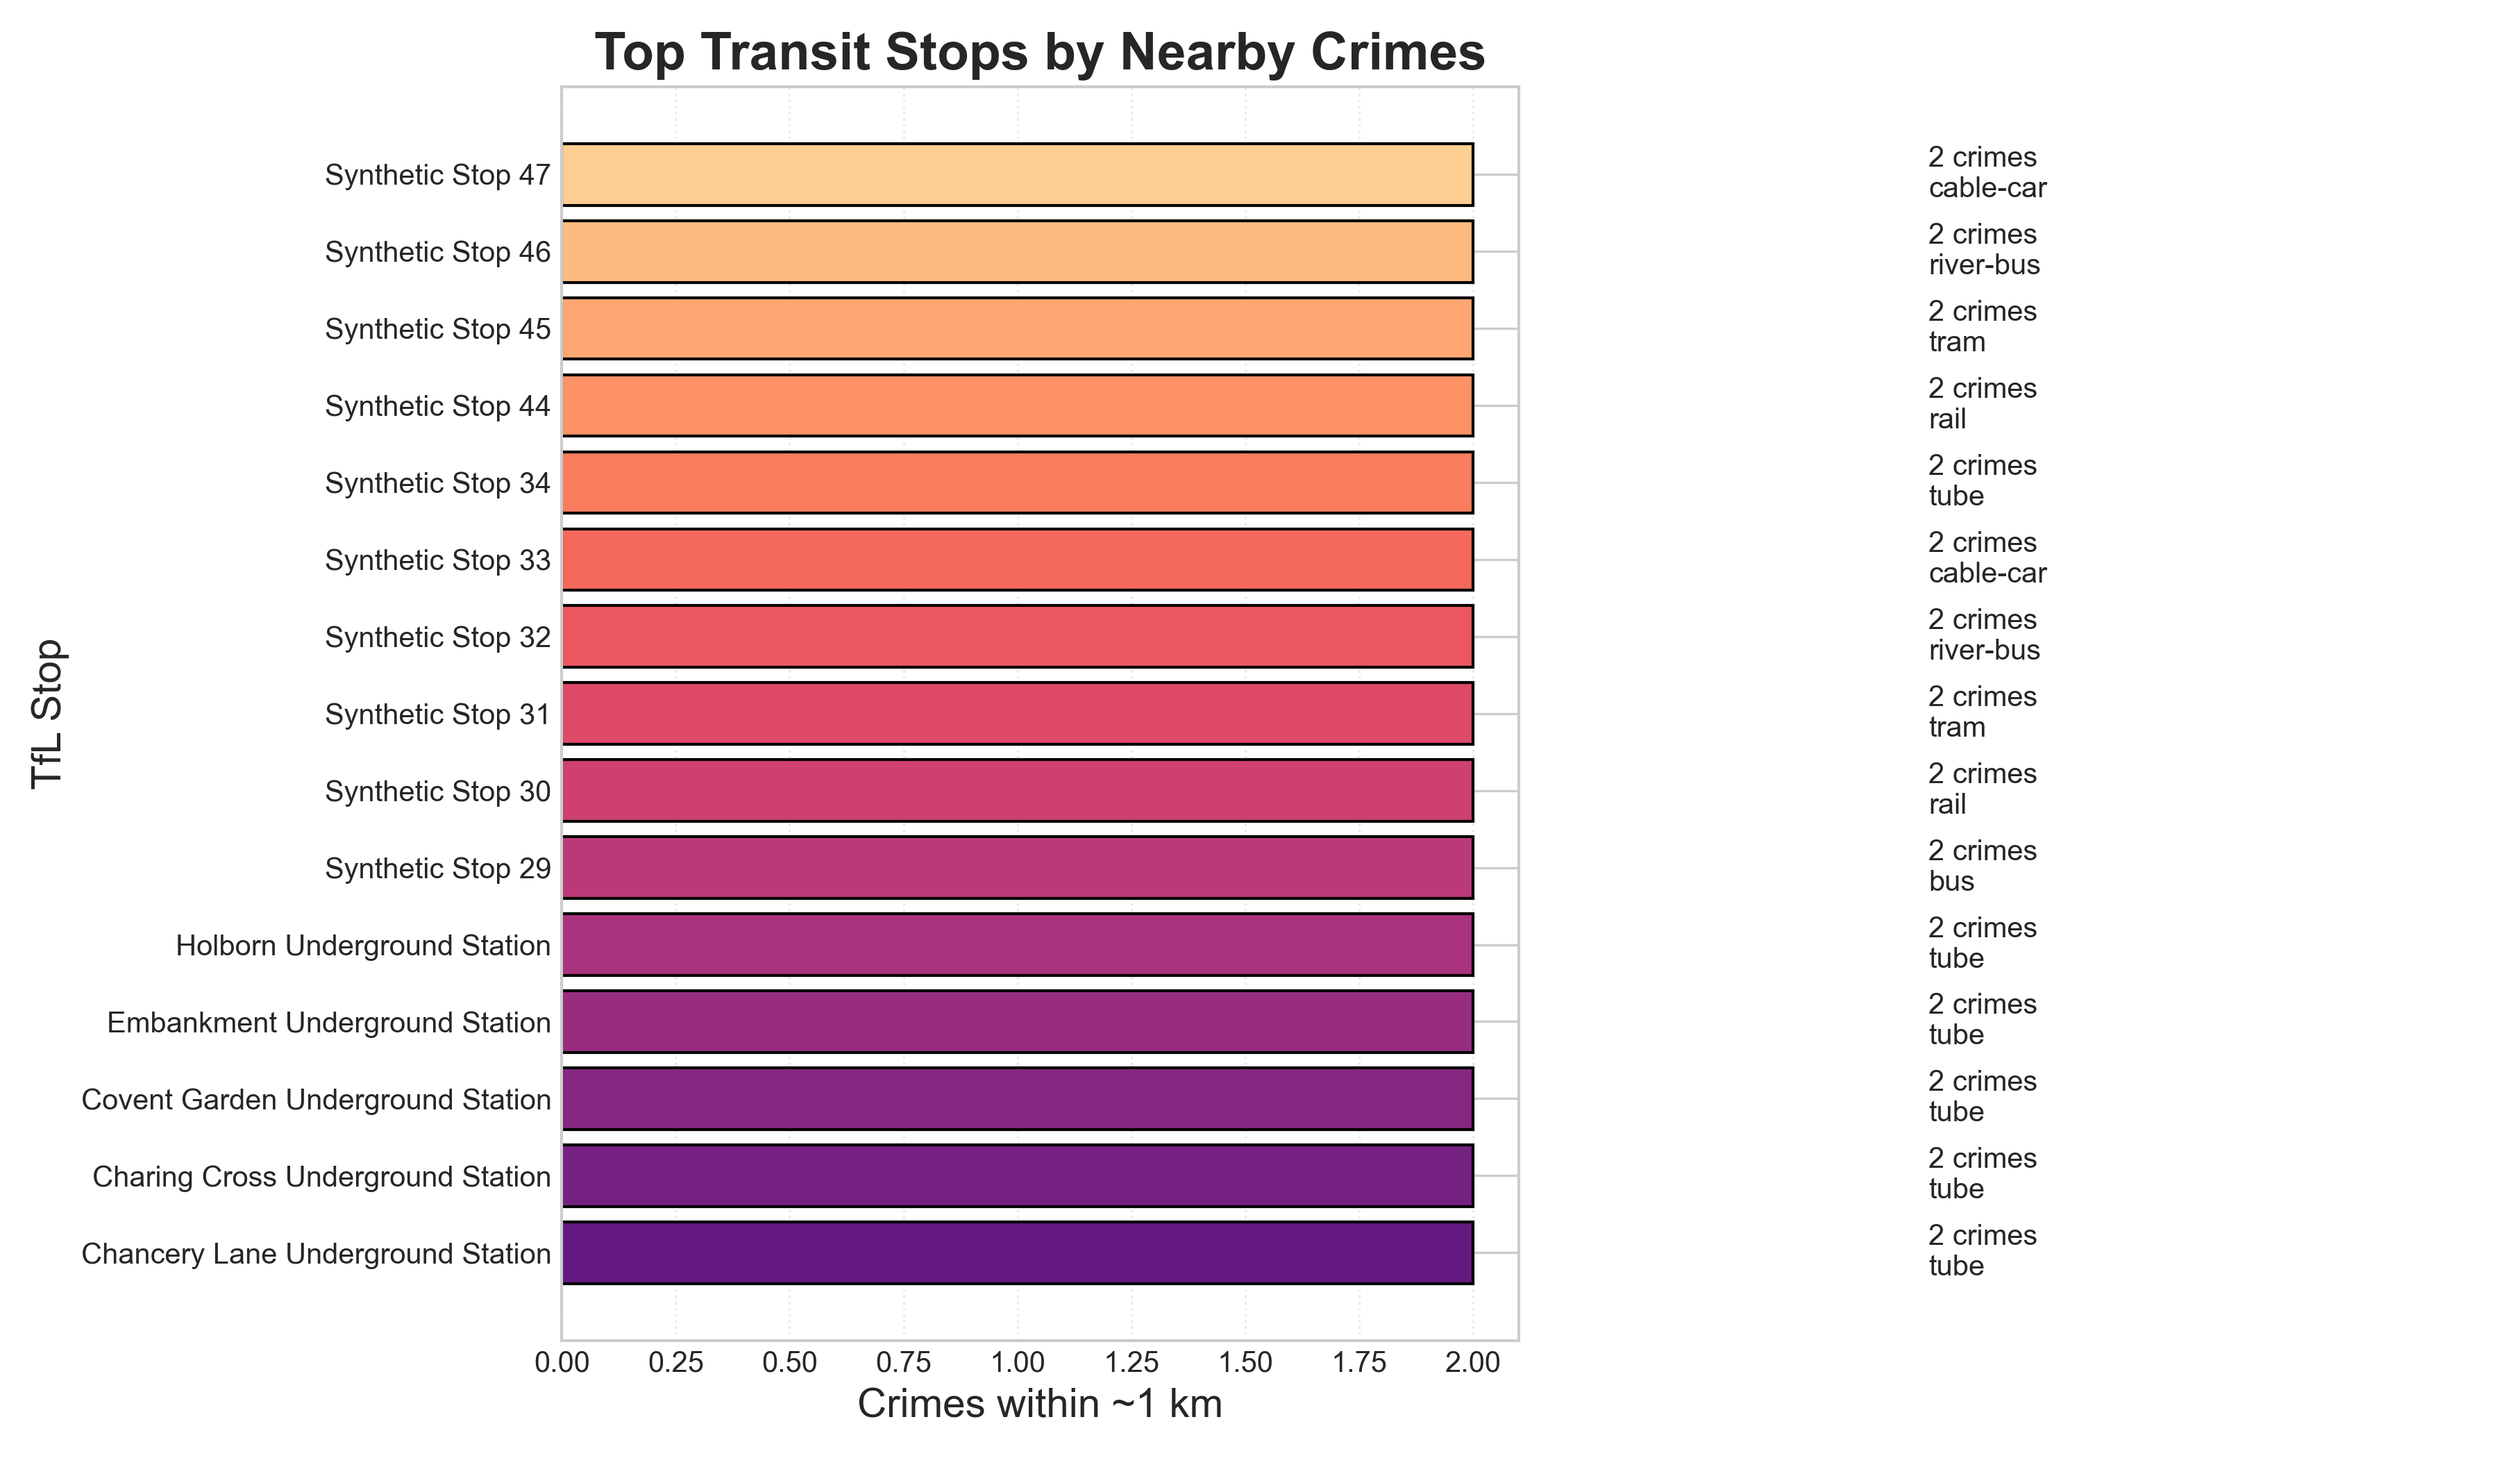
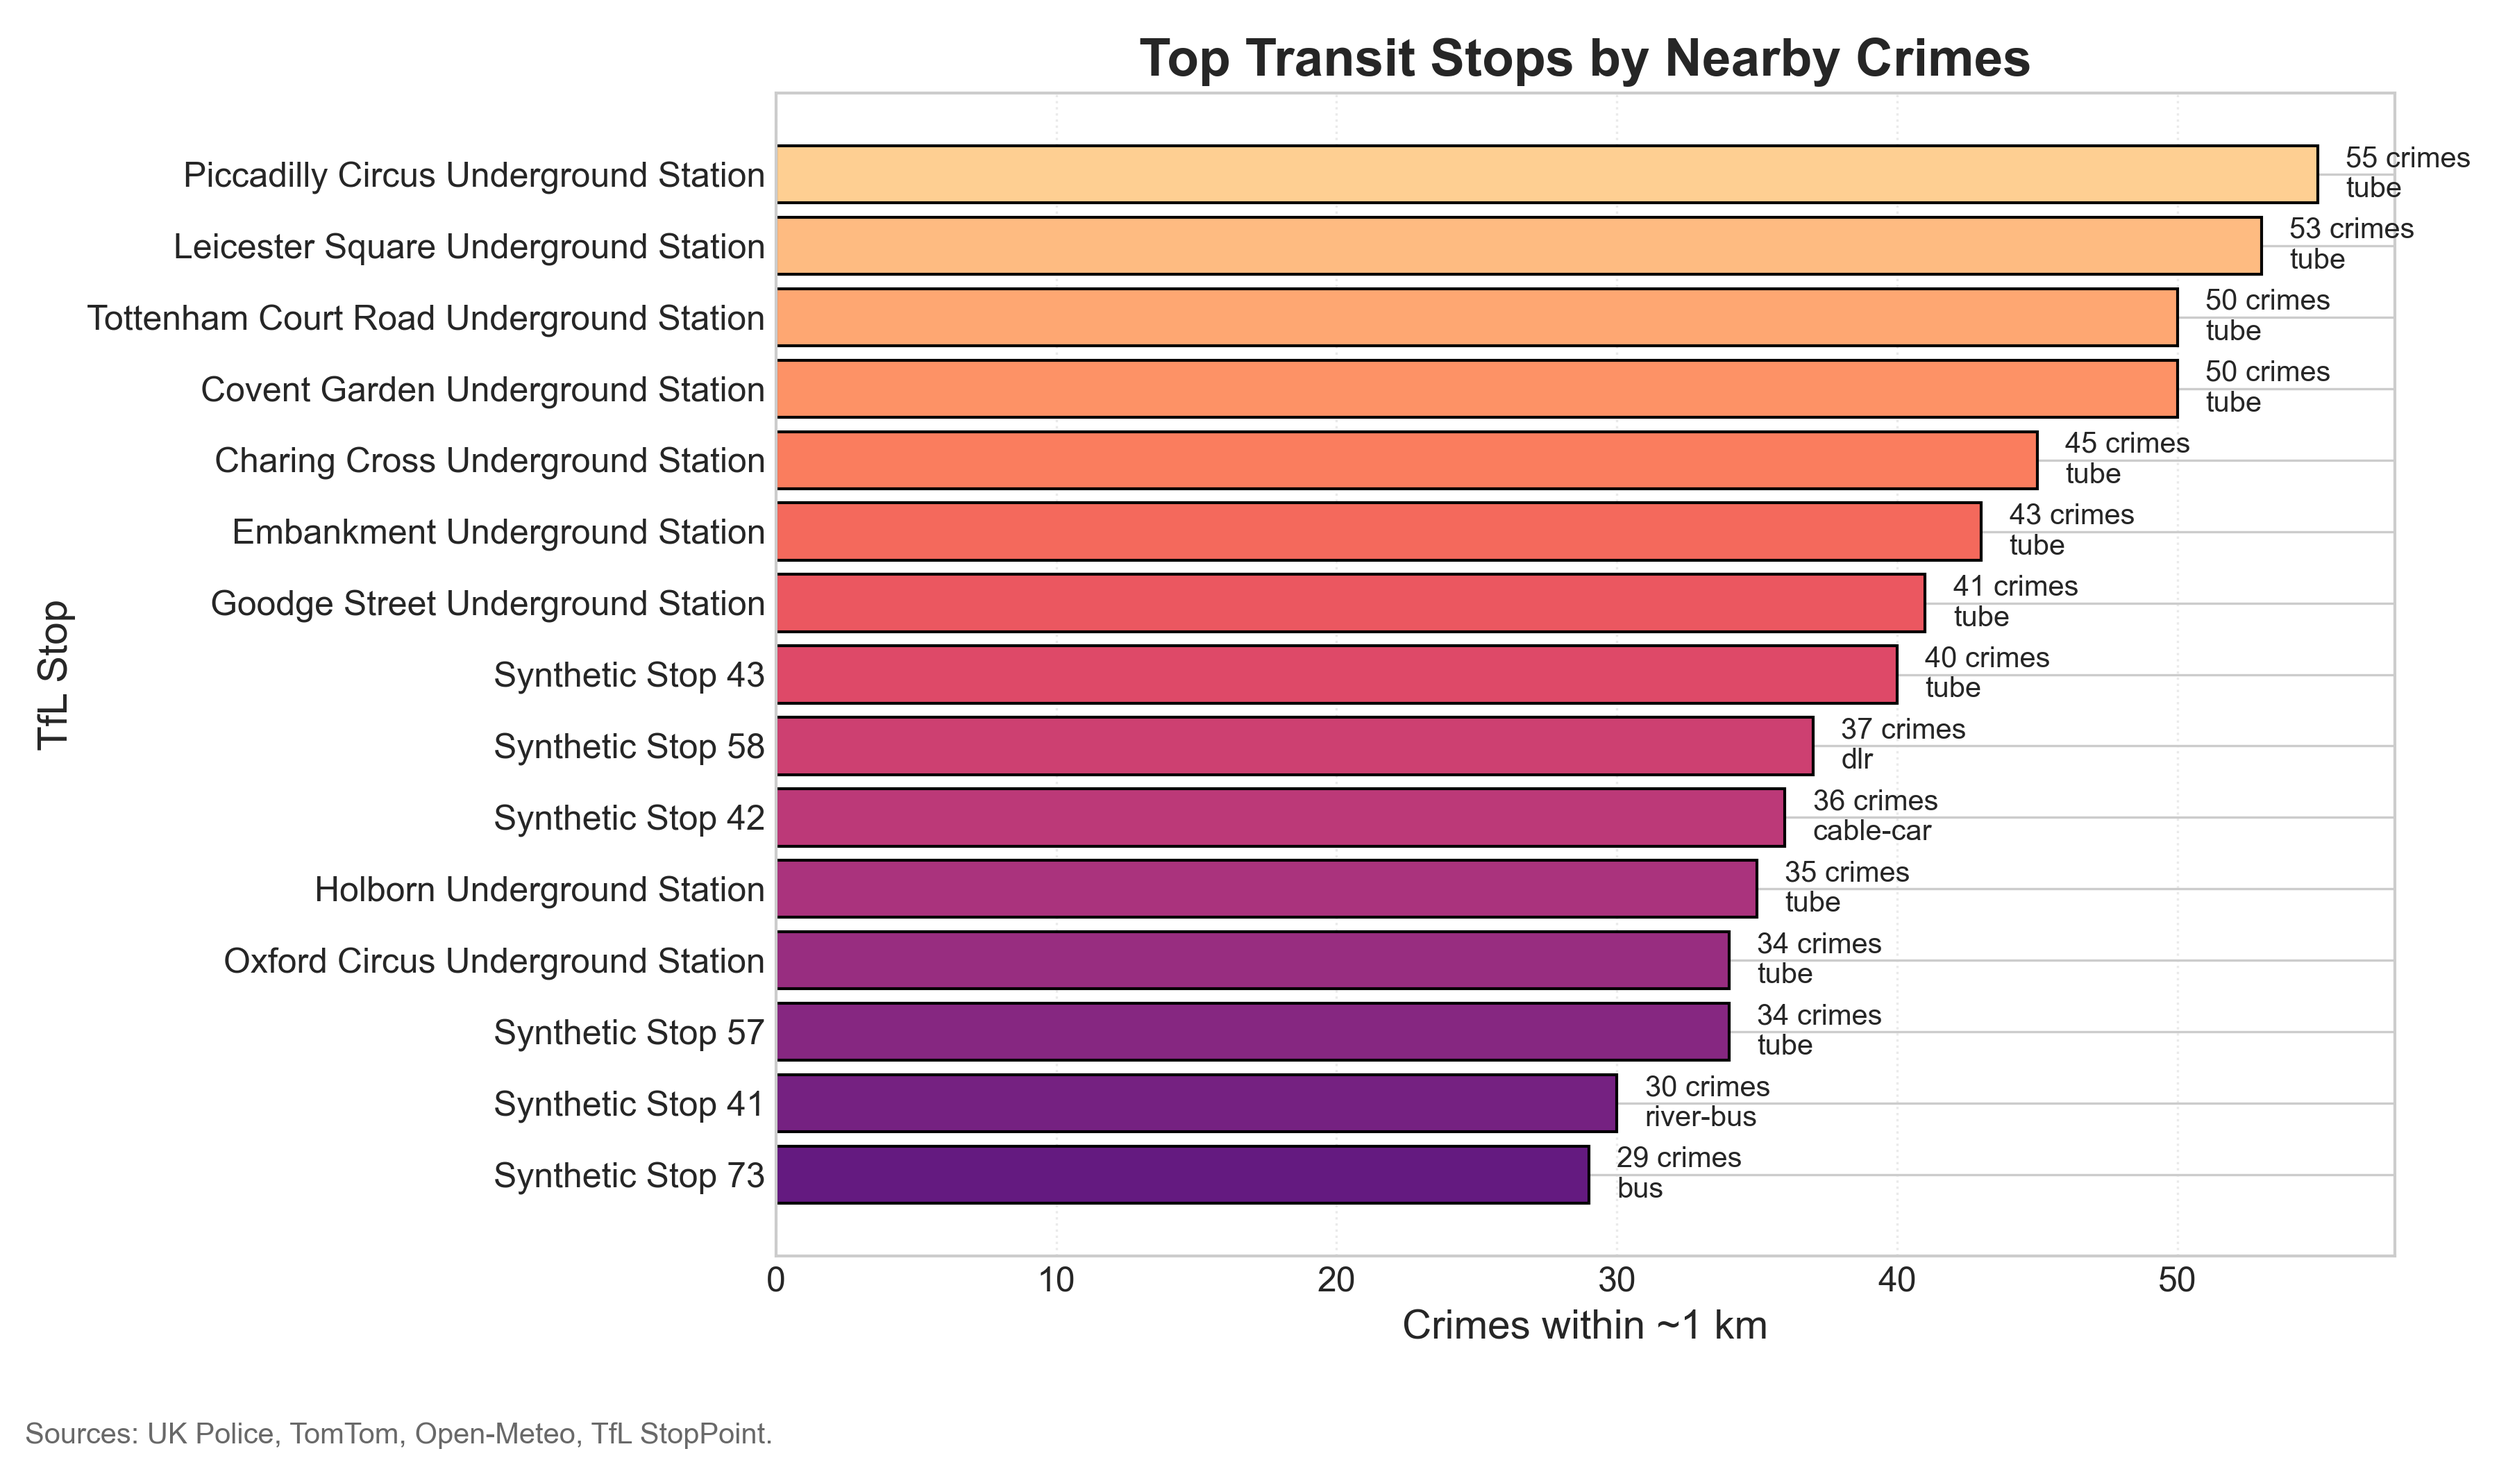
Update data pipeline and refreshed analysis outputs

diff --git a/finalproject.py b/finalproject.py
@@ -75,7 +75,7 @@ def export_analysis_csvs(df_map, output_dir="data/exports"):
 def _read_counts(cur):
     cur.execute("SELECT COUNT(*) FROM CrimeData;")
     crime = cur.fetchone()[0]
-    cur.execute("SELECT COUNT(*) FROM LocationData WHERE label != 'DEFAULT_LONDON';")
+    cur.execute("SELECT COUNT(*) FROM LocationData;")
     loc = cur.fetchone()[0]
     cur.execute("SELECT COUNT(*) FROM WeatherData;")
     weather = cur.fetchone()[0]
@@ -134,7 +134,7 @@ def main(month="2023-09", allow_seed=False, show_plots=False):
         crime_count = cur.fetchone()[0]
         inserted = max(crime_count - before_crime, 0)
         per_run_notes["CrimeData"] = f"[fetched {inserted}/{fetch_limit}]"
-        print("Re-run the script as needed to accumulate at least 100 crimes.")
+        print(f"Re-run the script as needed to accumulate at least {MIN_CRIME_ROWS} crimes.")
     else:
         print(f"CrimeData already satisfies minimum rows ({crime_count} rows).")
 
@@ -151,12 +151,14 @@ def main(month="2023-09", allow_seed=False, show_plots=False):
         cur.execute("SELECT COUNT(*) FROM LocationData WHERE label != 'DEFAULT_LONDON';")
         loc_count = cur.fetchone()[0]
         per_run_notes["LocationData"] = f"[geocoded {max(loc_count - before_loc, 0)}/{per_run}]"
-        if loc_count < MIN_LOCATION_ROWS:
+        if loc_count >= MIN_LOCATION_ROWS:
+            print("Location minimum met. Assigning default location to remaining crimes.")
+            assign_default_location(conn)
+        else:
             print("Re-run the script to continue building LocationData via TomTom.")
     else:
         print("LocationData already satisfies the minimum rows.")
-
-    assign_default_location(conn)
+        assign_default_location(conn)
 
     if loc_count < MIN_LOCATION_ROWS and allow_seed:
         print("Seeding synthetic locations to reach required minimum (allow-seed enabled).")
@@ -176,39 +178,52 @@ def main(month="2023-09", allow_seed=False, show_plots=False):
         per_run_transit = min(MAX_API_ITEMS_PER_RUN, remaining_transit)
         stop_type_cycle = [
             {
-                "stop_types": "NaptanMetroStation",
-                "coords": (51.515, -0.13),
-                "modes": ("tube", "dlr", "overground")
+                "stop_types": None,
+                "coords": (51.509, -0.118),
+                "radius": 2500,
+                "modes": ("tube", "dlr", "overground", "bus")
+            },
+            {
+                "stop_types": None,
+                "coords": (51.520, -0.005),
+                "radius": 2500,
+                "modes": ("tube", "dlr", "overground", "bus", "tram")
+            },
+            {
+                "stop_types": None,
+                "coords": (51.470, -0.100),
+                "radius": 2500,
+                "modes": ("tube", "dlr", "overground", "bus")
+            },
+            {
+                "stop_types": None,
+                "coords": (51.565, -0.150),
+                "radius": 2500,
+                "modes": ("tube", "dlr", "overground", "bus")
             },
             {
                 "stop_types": "NaptanRailStation",
                 "coords": (51.503, -0.112),
+                "radius": 2000,
                 "modes": ("overground",)
+            },
+            {
+                "stop_types": "NaptanMetroStation",
+                "coords": (51.515, -0.13),
+                "radius": 2000,
+                "modes": ("tube", "dlr", "overground")
             },
             {
                 "stop_types": "NaptanBusCoachStation",
                 "coords": (51.510, -0.090),
+                "radius": 2000,
                 "modes": ("bus", "coach")
             },
             {
-                "stop_types": "NaptanTramStation",
-                "coords": (51.374, -0.10),
-                "modes": ("tram",)
-            },
-            {
                 "stop_types": None,
-                "coords": (51.509, -0.017),
-                "modes": ("dlr",)
-            },
-            {
-                "stop_types": None,
-                "coords": (51.500, 0.003),
-                "modes": ("cable-car",)
-            },
-            {
-                "stop_types": None,
-                "coords": (51.507, -0.02),
-                "modes": ("river-bus", "river-tour")
+                "coords": (51.470, -0.350),
+                "radius": 2500,
+                "modes": ("tube", "dlr", "overground", "bus")
             },
         ]
         cursor_value = get_api_cursor(conn, "transit_cycle", default="0")
@@ -220,19 +235,21 @@ def main(month="2023-09", allow_seed=False, show_plots=False):
         stop_types = config["stop_types"]
         t_lat, t_lon = config["coords"]
         cycle_modes = config.get("modes")
+        radius = config.get("radius", 2000)
         print(f"Fetching up to {per_run_transit} TfL stops (need {remaining_transit} more) "
-              f"using stop types [{stop_types}] near ({t_lat}, {t_lon}).")
+              f"using stop types [{stop_types}] near ({t_lat}, {t_lon}) radius {radius}m.")
         before_transit = transit_count
         fetch_transit_stops(
             conn,
             lat=t_lat,
             lon=t_lon,
+            radius=radius,
             max_items=per_run_transit,
             stop_types=stop_types,
             modes=cycle_modes or ("tube", "dlr", "overground", "bus")
         )
         set_api_cursor(conn, "transit_cycle", str((cycle_index + 1) % len(stop_type_cycle)))
-        print("Re-run the script to accumulate at least 100 transit stops.")
+        print(f"Re-run the script to accumulate at least {MIN_TRANSIT_ROWS} transit stops.")
         transit_count = get_transit_stop_count(conn)
         per_run_notes["TransitStops"] = f"[inserted {max(transit_count - before_transit, 0)}/{per_run_transit}]"
     else:
